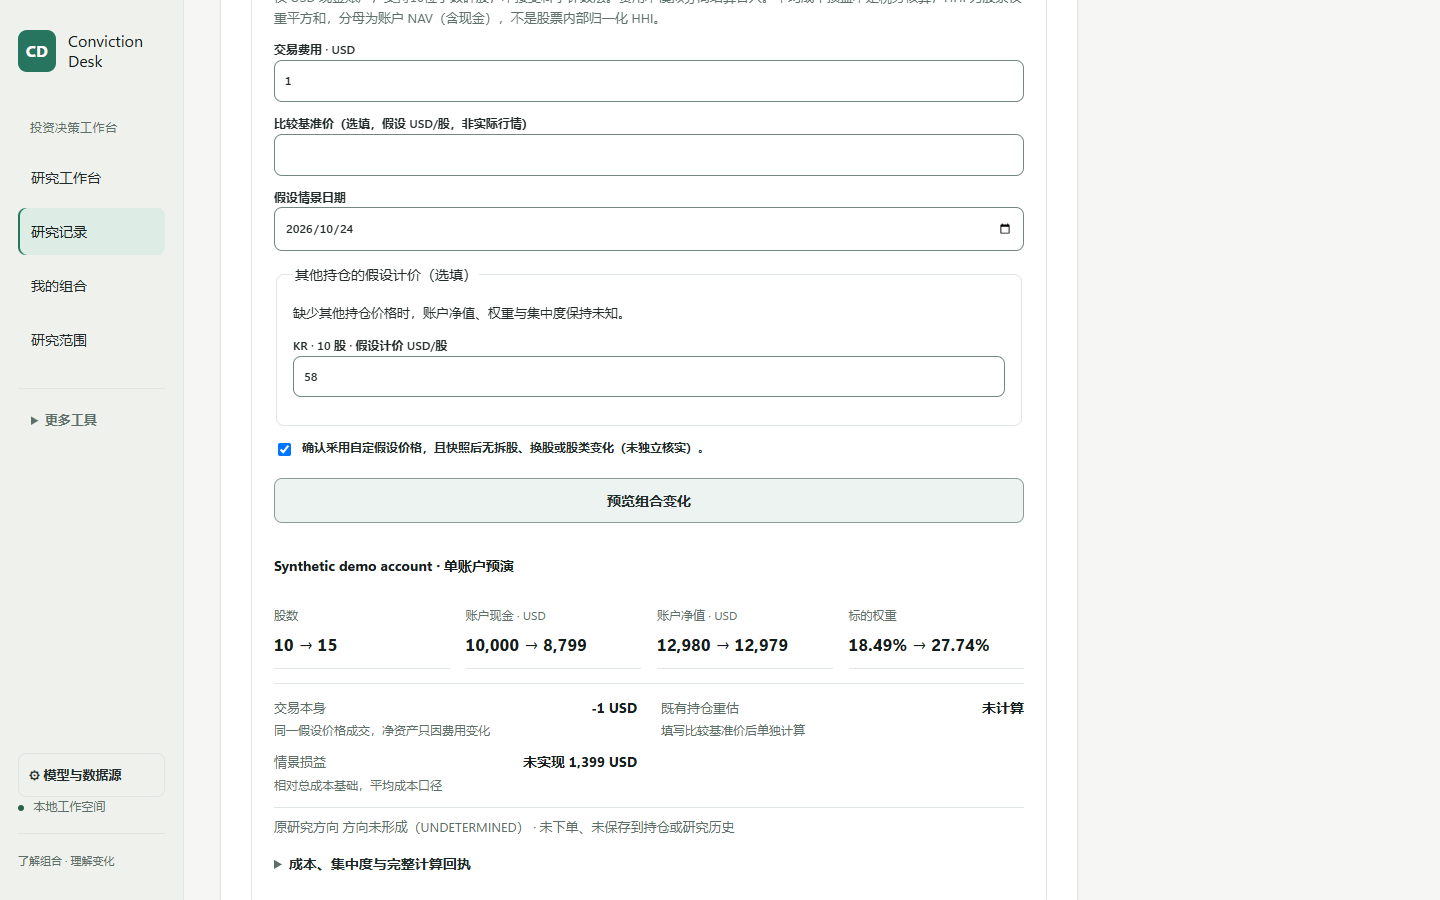
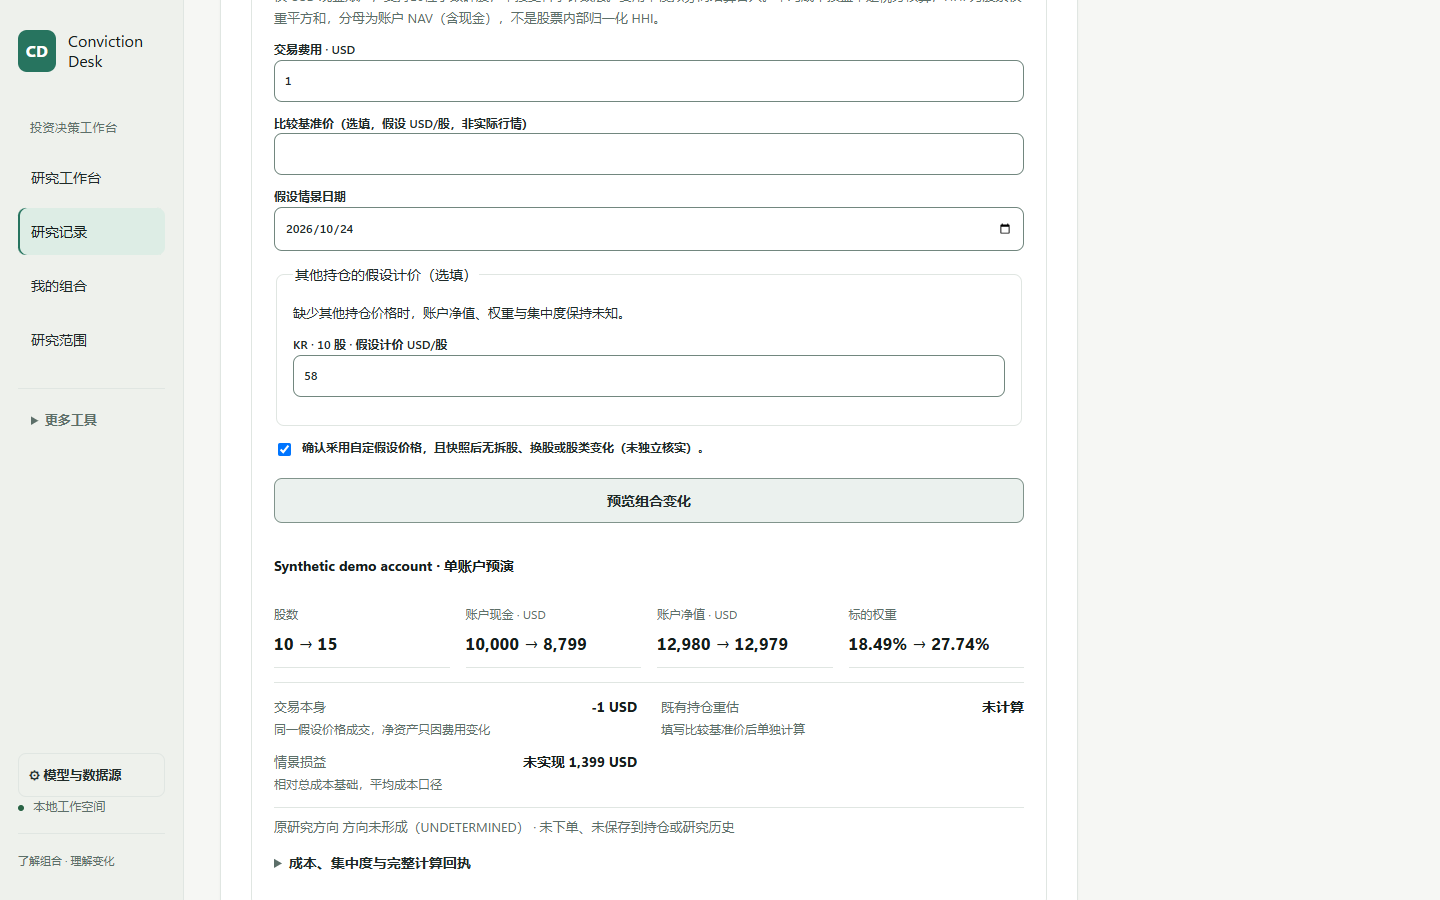
fix: keep the public SEC card visible on mobile and preserve replay checks

diff --git a/src/market_agent/static/ivs-filings.js b/src/market_agent/static/ivs-filings.js
@@ -31,7 +31,7 @@
     for (const filing of filings) {
       const item = node("li", null, "ivs-filing"), delta = deltas.get(filing.evidence_id);
       const lead = node("div", null, "ivs-filing-lead");
-      lead.append(node("strong", `${filing.symbol} · ${filing.event_label || filing.form}`), node("span", filing.scope?.kind === "HOLDING" ? "你的持仓" : "你的关注", "small muted"), node("span", "待核查，尚未研究", "small muted"));
+      lead.append(node("strong", `${filing.symbol} · ${filing.event_label || filing.form}`), node("span", publicIvs ? (filing.scope?.kind === "HOLDING" ? "虚构持仓 · SYNTHETIC" : "虚构关注 · SYNTHETIC") : (filing.scope?.kind === "HOLDING" ? "你的持仓" : "你的关注"), "small muted"), node("span", "待核查，尚未研究", "small muted"));
       const source = node("a", `打开 SEC 原始申报 · ${filing.form}`); source.href = filing.source_url; source.target = "_blank"; source.rel = "noopener noreferrer"; source.dataset.secAccession = filing.accession;
       const time = filing.time_precision === "SECOND" ? `SEC 接收 ${stamp(filing.accepted_at)}` : `仅知申报日期 ${filing.filing_date || "未知"}；未伪造精确时刻`;
       item.append(lead, node("p", `${time} · 条目 ${(filing.items || []).join("、") || "未注明"}`, "small muted"));

diff --git a/src/market_agent/static/ivs.css b/src/market_agent/static/ivs.css
@@ -45,8 +45,15 @@ body[data-public-ivs="1"] .public-ivs-classes span { font-size: .78rem; line-hei
 /* The public build has no market data provider, so the market-pulse section would
    only show "not configured" counters. The SEC lane moves above it and this hides. */
 body[data-public-ivs="1"] #attention { display: none; }
+body[data-public-ivs="1"] #today-pulse { display: none; }
 body[data-public-ivs="1"] .public-ivs-banner + #ivs-filings { margin-top: 0; }
 @media (max-width: 600px) {
   body[data-public-ivs="1"] .public-ivs-banner { padding: .85rem .9rem; }
   body[data-public-ivs="1"] .public-ivs-banner h2 { font-size: 1.05rem; }
+  body[data-public-ivs="1"] .public-ivs-gloss { font-size: .78rem; margin-bottom: .5rem; }
+  body[data-public-ivs="1"] .public-ivs-classes { gap: .35rem; }
+  body[data-public-ivs="1"] .public-ivs-classes li { padding: .35rem .5rem; }
+  body[data-public-ivs="1"] .public-ivs-classes strong { font-size: .75rem; }
+  body[data-public-ivs="1"] .public-ivs-classes span { display: none; }
+  body[data-public-ivs="1"] .public-ivs-banner details { margin-top: .5rem; font-size: .8rem; }
 }

diff --git a/src/market_agent/main.py b/src/market_agent/main.py
@@ -50,14 +50,14 @@ def llm_client_from_environment(environment: Mapping[str, str]) -> LLMClient:
 # and which came from a script instead of a model.
 PUBLIC_IVS_BANNER = """
 <section id="public-ivs-banner" class="public-ivs-banner" aria-labelledby="public-ivs-banner-title">
-  <h2 id="public-ivs-banner-title">公开演示：从一份真实的 SEC 披露，走到一个可核查的研究判断</h2>
-  <p class="public-ivs-gloss" lang="en">Public demo: one real public SEC filing receipt, a fictional portfolio and thesis, and a scripted research replay — keyless, offline, no model calls.</p>
+  <h2 id="public-ivs-banner-title">公开演示：SEC 披露 → 研究 → 账户预演</h2>
+  <p class="public-ivs-gloss" lang="en">Real SEC metadata. Fictional holdings and thesis. Scripted research, offline and keyless; no model calls.</p>
   <ul class="public-ivs-classes">
-    <li data-evidence-class="REAL_PUBLIC_SEC_METADATA"><strong>真实公开 SEC 申报元数据</strong><span>REAL_PUBLIC_SEC_METADATA · 冻结捕获，可打开 SEC 原文核对；只含元数据，不含申报正文。</span></li>
-    <li data-evidence-class="SYNTHETIC"><strong>虚构持仓与 Thesis</strong><span>SYNTHETIC · 账户、数量与投资逻辑均为演示虚构，不是任何人的真实持仓或记录。</span></li>
-    <li data-evidence-class="SCRIPTED"><strong>脚本回放（未运行 AI 模型）</strong><span>SCRIPTED · 0 次模型调用 · 无费用 · 不代表真实模型质量。</span></li>
+    <li data-evidence-class="REAL_PUBLIC_SEC_METADATA"><strong>真实 SEC · REAL_PUBLIC_SEC_METADATA</strong><span>冻结于 2026-10-24，可打开 SEC 原文核对；只含元数据，不含申报正文。</span></li>
+    <li data-evidence-class="SYNTHETIC"><strong>虚构持仓与 Thesis · SYNTHETIC</strong><span>账户、数量与投资逻辑均为演示虚构，不是任何人的真实持仓或记录。</span></li>
+    <li data-evidence-class="SCRIPTED"><strong>脚本回放 · SCRIPTED · 无模型费用</strong><span>未运行 AI 模型；0 次模型调用 · 不代表真实模型质量。</span></li>
   </ul>
-  <p class="small muted">条目代码只用于提出核查问题，不证明价格或投资影响；UNKNOWN / UNDETERMINED 不会被显示成 HOLD；模拟不会下单，也不会修改任何真实组合。</p>
+  <details><summary>演示范围与限制</summary><p class="small muted">条目代码只用于提出核查问题，不证明价格或投资影响；UNKNOWN / UNDETERMINED 不会被显示成 HOLD；模拟不会下单，也不会修改任何真实组合。</p></details>
 </section>"""
 
 

diff --git a/tests/test_quiet_ui_contract.py b/tests/test_quiet_ui_contract.py
@@ -97,7 +97,8 @@ def test_paid_actions_use_in_app_dialog_and_cancel_is_safe():
     assert html.index('cost-dialog.js') < html.index('attention.js') < html.index('research-desk.js')
     desk = source('research-desk.js')
     # Every research POST sits behind an awaited confirmation.
-    assert desk.count('send(') == 4  # definition + three confirmed call sites
+    assert desk.count('send(') == 5  # definition + four confirmed call sites
+    assert 'if (await confirmFollowup("DEEP") && stillShowing(shown)) void send($("desk-followup").value, true, "DEEP");' in desk
     # The related Today item shown in the dialog must still be the one sent.
     assert 'const draft=attentionDraft;if(await confirmNew() && attentionDraft===draft)void send($("desk-question").value,false);' in desk
     # A follow-up/retry confirmation covers only the task revision it showed.
@@ -118,7 +119,8 @@ def test_home_keeps_short_recent_summary_and_records_is_full_list():
 def test_today_long_material_opens_in_drawer_without_hiding_history_or_failures():
     script = source('attention.js')
     assert 'id="attention-detail"' in source('index.html')
-    assert 'data.historical_items.forEach(row=>older.append(compactRow(row)))' in script
+    assert 'const earlier=data.earlier_items || data.historical_items || [];' in script
+    assert 'earlier.forEach(row=>older.append(compactRow(row)))' in script
     assert 'openDetail(row,r=>[`${r.item.symbol} · 证据与记录`,renderItem(r,"evidence")])' in script
     assert 'openDetail(row,r=>[`${r.item.symbol} · 关注详情`,renderItem(r,"drawer")])' in script
     # A queue refresh redraws an open drawer from the new row; it closes only

diff --git a/scripts/build_public_demo_dataset.py b/scripts/build_public_demo_dataset.py
@@ -9,6 +9,7 @@ fictional. Docker serves the resulting rows and never invokes a model.
 """
 import asyncio
 import json
+import os
 import sqlite3
 from datetime import datetime, timedelta, timezone
 from decimal import Decimal
@@ -268,7 +269,9 @@ def dump_tables(path):
 
 
 async def main():
-    with TemporaryDirectory(prefix='convictiondesk-demo-', ignore_cleanup_errors=True) as temp:
+    with TemporaryDirectory(prefix='convictiondesk-demo-',
+                            dir=os.environ.get('MIA_ISOLATED_ROOT'),
+                            ignore_cleanup_errors=True) as temp:
         path = Path(temp)/'demo.sqlite3'
         oracle = ScriptedOracle()
         from market_agent.persistence import Store
